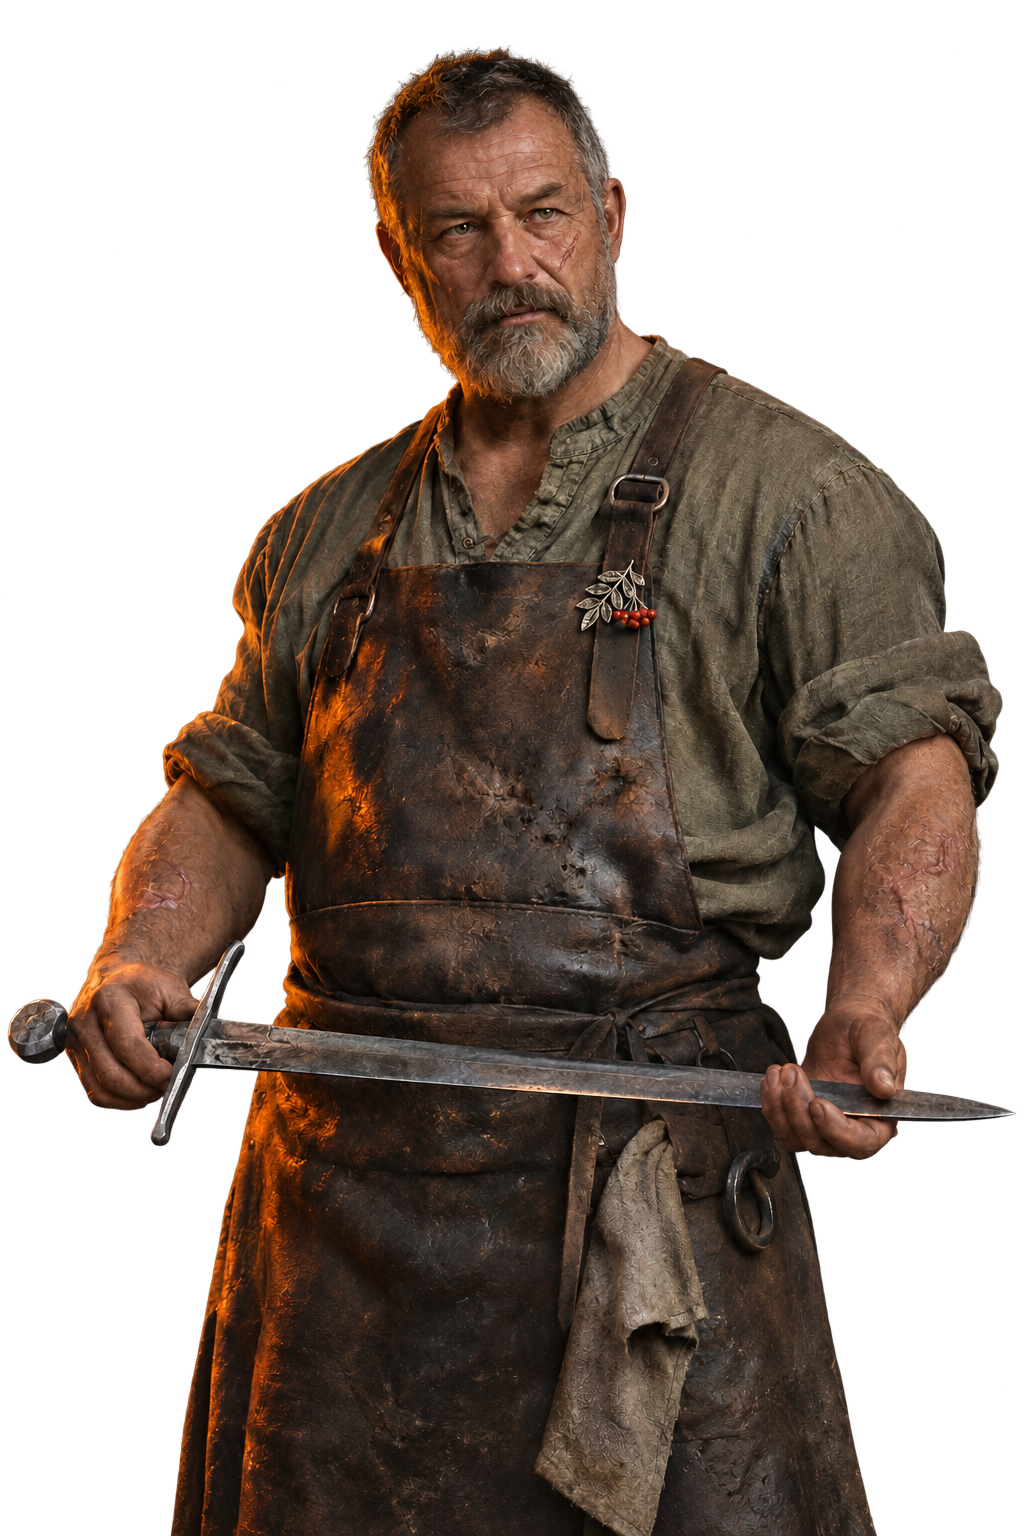
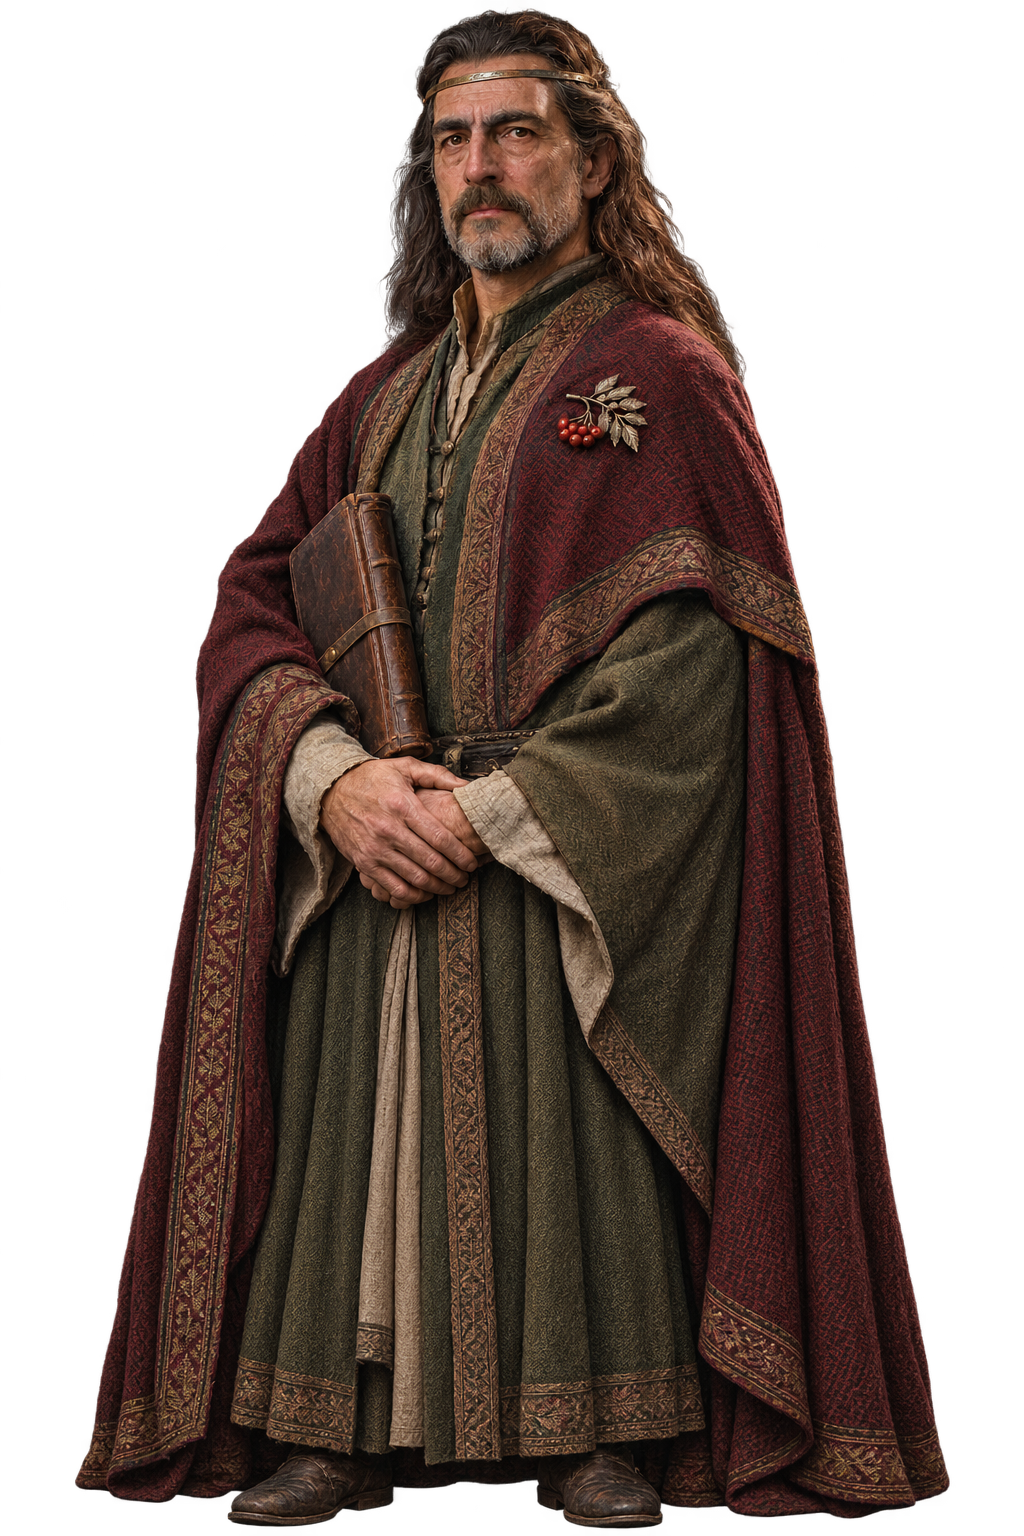
feat(frontend): one Guide link for the welcome and the guide; Eru is Insight
The Doors of Durin and the Guide link both led to the guide, one through
the welcome: the Guide link now opens the welcome (quote, the guide, a
tip) and the door icon is gone. The nav links sit further apart. Eru's
role reads Insight rather than Analyst, too close to Analysis; Elrond and
Eru swap portraits (the blacksmith is Elrond's), the lowered framing
following the robed figure to Eru.

diff --git a/src/web/frontend/src/App.js b/src/web/frontend/src/App.js
@@ -22,7 +22,7 @@ import CaseBrowser from './components/CaseBrowser';
 import StartOffer from './components/StartOffer';
 import './App.css';
 
-function Navigation({ onGuide, onWelcome }) {
+function Navigation({ onGuide }) {
   const navigate = useNavigate();
   const { user, logout, isAuthenticated } = useAuth();
 
@@ -45,7 +45,7 @@ function Navigation({ onGuide, onWelcome }) {
       <div className="nav-right">
         <Link to="/jobs">Jobs</Link>
         <Link to="/help">About</Link>
-        <button type="button" className="nav-guide" onClick={onGuide}>Guide</button>
+        <button type="button" className="nav-guide" onClick={onGuide} title="The guide and a tip">Guide</button>
         <Link to={isAuthenticated ? "/account" : "/login"}>Account</Link>
         <button
           onClick={isAuthenticated ? handleLogout : undefined}
@@ -60,15 +60,6 @@ function Navigation({ onGuide, onWelcome }) {
           </svg>
           <span>Log out</span>
         </button>
-        <button type="button" className="nav-welcome" onClick={onWelcome} title="Welcome: the guide and a tip" aria-label="Show the welcome: the guide and a tip">
-          <svg width="18" height="18" viewBox="0 0 24 24" fill="none" stroke="currentColor" strokeWidth="2" strokeLinecap="round" strokeLinejoin="round">
-            {/* The Doors of Durin: speak, friend, and enter */}
-            <path d="M5 22V11a7 7 0 0 1 14 0v11" />
-            <path d="M3 22h18" />
-            <path d="M12 14v8" />
-            <path d="M12 6.5v3M10.5 8h3" />
-          </svg>
-        </button>
       </div>
     </nav>
   );
@@ -76,7 +67,6 @@ function Navigation({ onGuide, onWelcome }) {
 
 function AppContent() {
   const [scrollProgress, setScrollProgress] = useState(0);
-  const [guideRequested, setGuideRequested] = useState(false);
   const [offerRequested, setOfferRequested] = useState(false);
   const closeOfferRequest = useCallback(() => setOfferRequested(false), []);
   const mapBackground = `${process.env.PUBLIC_URL}/images/middle_earth.png`;
@@ -95,11 +85,10 @@ function AppContent() {
       }}
     >
       <header className="App-header">
-        <Navigation onGuide={() => setGuideRequested(true)} onWelcome={() => setOfferRequested(true)} />
+        <Navigation onGuide={() => setOfferRequested(true)} />
       </header>
 
-        <StartOffer guideRequested={guideRequested} onGuideClosed={() => setGuideRequested(false)}
-          offerRequested={offerRequested} onOfferClosed={closeOfferRequest} />
+        <StartOffer offerRequested={offerRequested} onOfferClosed={closeOfferRequest} />
 
         <main className="App-main">
           <Routes>

diff --git a/src/web/frontend/src/components/StartOffer.js b/src/web/frontend/src/components/StartOffer.js
@@ -10,9 +10,9 @@ const NOT_YET = ['/login', '/register', '/forgot-password', '/reset-password'];
 
 /**
  * At start-up: a quote, then the guide on offer and a tip side by side, each with its own "every start" tickbox.
- * The navigation's Guide link opens the guide directly (guideRequested); its Doors of Durin open this (offerRequested).
+ * The navigation's Guide link opens this on demand (offerRequested); the guide itself is one click on.
  */
-function StartOffer({ guideRequested, onGuideClosed, offerRequested, onOfferClosed }) {
+function StartOffer({ offerRequested, onOfferClosed }) {
   const { user, loading } = useAuth();
   const { pathname } = useLocation();
   const navigate = useNavigate();
@@ -31,7 +31,7 @@ function StartOffer({ guideRequested, onGuideClosed, offerRequested, onOfferClos
     if (wanted.guide || wanted.tips) setOffer(true);
   }, [loading, pathname, user]);
 
-  // The Doors of Durin in the navigation: the welcome, with a fresh tip, whatever the tickboxes say
+  // The navigation's Guide link: the welcome, with a fresh tip, whatever the tickboxes say
   useEffect(() => {
     if (!offerRequested) return;
     setPrefs(startPrefs(user));
@@ -40,24 +40,12 @@ function StartOffer({ guideRequested, onGuideClosed, offerRequested, onOfferClos
     onOfferClosed?.();
   }, [offerRequested, user, onOfferClosed]);
 
-  useEffect(() => {
-    if (guideRequested) {
-      setOffer(false);
-      setGuide(true);
-    }
-  }, [guideRequested]);
-
   const toggle = (which, value) => {
     setPrefs((p) => ({ ...p, [which]: value }));
     setStartPref(user, which, value);
   };
 
-  const closeGuide = () => {
-    setGuide(false);
-    onGuideClosed?.();
-  };
-
-  if (guide) return <Guide onClose={closeGuide} />;
+  if (guide) return <Guide onClose={() => setGuide(false)} />;
   if (!offer) return null;
 
   return (

diff --git a/src/web/frontend/src/components/Home.js b/src/web/frontend/src/components/Home.js
@@ -11,17 +11,17 @@ const mordorClosedImage = `${process.env.PUBLIC_URL}/images/mordor_closed.jpg`;
 const mordorOpenImage = `${process.env.PUBLIC_URL}/images/mordor_open.jpg`;
 
 // The banners, left to right (the Aragorn page itself is for admins); drop lowers a figure in its
-// frame: Elrond's legs are long for his body, so he's cut lower, Pippin half as much
+// frame: Eru's legs are long for his body, so he's cut lower, Pippin half as much
 const JOURNEYS = [
   { to: '/gandalf', image: gandalfImage, name: 'Gandalf', role: 'Acquisition',
     text: 'Collect evidence from live or remote systems with encrypted packaging.' },
-  { to: '/elrond', image: elrondImage, name: 'Elrond', role: 'Analysis', drop: '24px',
+  { to: '/elrond', image: elrondImage, name: 'Elrond', role: 'Analysis',
     text: 'Process timelines, memory and artifacts to map incidents to MITRE ATT&CK.' },
   { to: '/pippin', image: pippinImage, name: 'Pippin', role: 'Threat Intelligence', drop: '12px',
     text: 'Import indicators, match cases against them and see whose tradecraft the evidence resembles.' },
   { to: '/aragorn', image: aragornImage, name: 'Aragorn', role: 'Administration',
     text: "Keep the realm: Rowanholt's containers, users, settings and the test lab." },
-  { to: '/ai', image: eruImage, name: 'Eru', role: 'Analyst',
+  { to: '/ai', image: eruImage, name: 'Eru', role: 'Insight', drop: '24px',
     text: 'Ask about a case and get answers drawn from its own files, each citing the rows it came from.' },
 ];
 

diff --git a/src/web/frontend/src/App.css b/src/web/frontend/src/App.css
@@ -82,7 +82,7 @@ body {
 .nav-right {
   display: flex;
   align-items: center;
-  gap: 0.5rem;
+  gap: 1rem;
 }
 
 /* Each group packs towards its outer edge (10px past the content edge), leaving clear space by the logo */
@@ -3192,18 +3192,6 @@ a.mt-pill-link:hover { border-color: #66d9ef; }
   transition: all 0.3s ease;
 }
 .App-header nav .nav-guide:hover { background: rgba(167, 219, 108, 0.2); color: #a7db6c; }
-.App-header nav .nav-welcome {
-  background: transparent;
-  border: none;
-  color: #f0dba5;
-  padding: 0.5rem 0.4rem;
-  border-radius: 4px;
-  display: flex;
-  align-items: center;
-  box-shadow: none;
-  transition: all 0.3s ease;
-}
-.App-header nav .nav-welcome:hover { background: rgba(167, 219, 108, 0.2); color: #a7db6c; transform: none; }
 
 .guide-backdrop {
   position: fixed;

diff --git a/src/web/frontend/src/guide/prefs.js b/src/web/frontend/src/guide/prefs.js
@@ -46,7 +46,7 @@ export function nextTip(user, exclude) {
 
 // Once per start, where a start is the first visit after a twelve-hour gap. Kept in localStorage,
 // not sessionStorage: a session doesn't survive new tabs or the desktop app's reloads, so the
-// offer kept coming back. The Doors of Durin in the navigation show it on demand.
+// offer kept coming back. The navigation's Guide link shows it on demand.
 const OFFERED = 'rowanholt.offeredAt';
 const START_GAP_MS = 12 * 60 * 60 * 1000;
 
